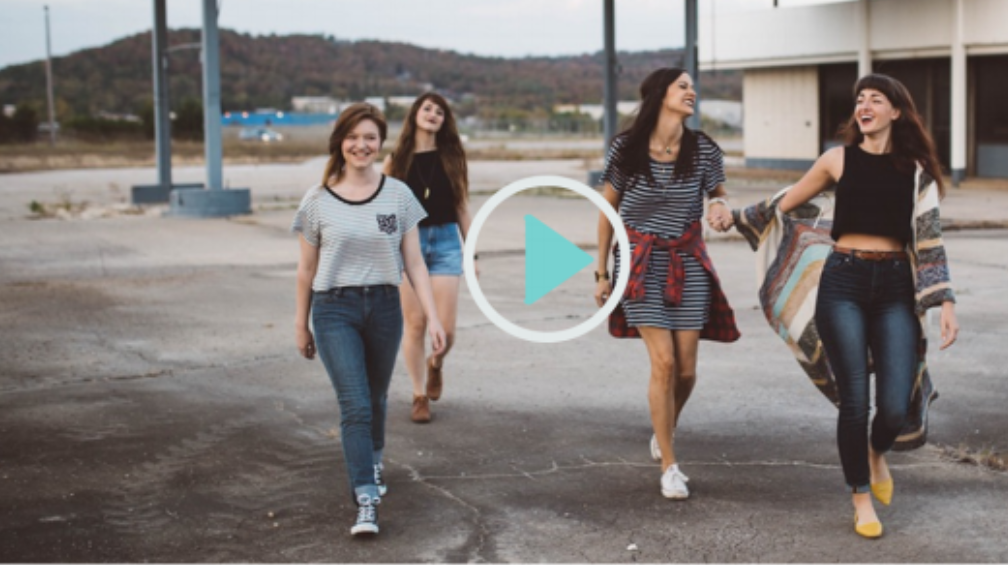
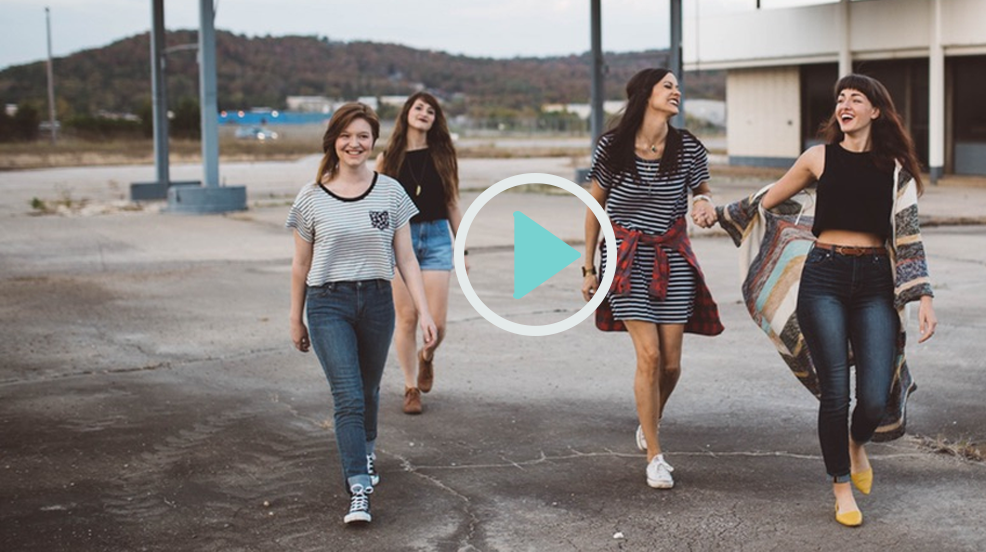
change header image on home-2

diff --git a/src/app/home-2/home-2.component.css b/src/app/home-2/home-2.component.css
@@ -2,7 +2,7 @@
 .wrap-coming{
     width: 100%;
     float: left;
-    background-image: url('../../assets/images/left-side.png'), url('../../assets/images/right-side.png');
+    background-image: url('../../assets/images/^818144E4432190C3A7AFDB2663BF6011E920F2F862670C2642^pimgpsh_fullsize_distr.png'), url('../../assets/images/^89D1499118848E8845368781623DA5A5D9FCDA5712F2E45D20^pimgpsh_fullsize_distr.png');
     background-position: left top, right top;
     background-repeat: no-repeat, no-repeat;
     background-size: contain,contain;

diff --git a/src/app/home-2/home-2.component.html b/src/app/home-2/home-2.component.html
@@ -1,6 +1,7 @@
 <app-header></app-header>
 
-<div class="wrap-coming" style="">
+<div class="wrap-coming wrap_comming2">
+
 <div class="container-fluid">
   <div class="box-comming">
     <div class="container-coming">
